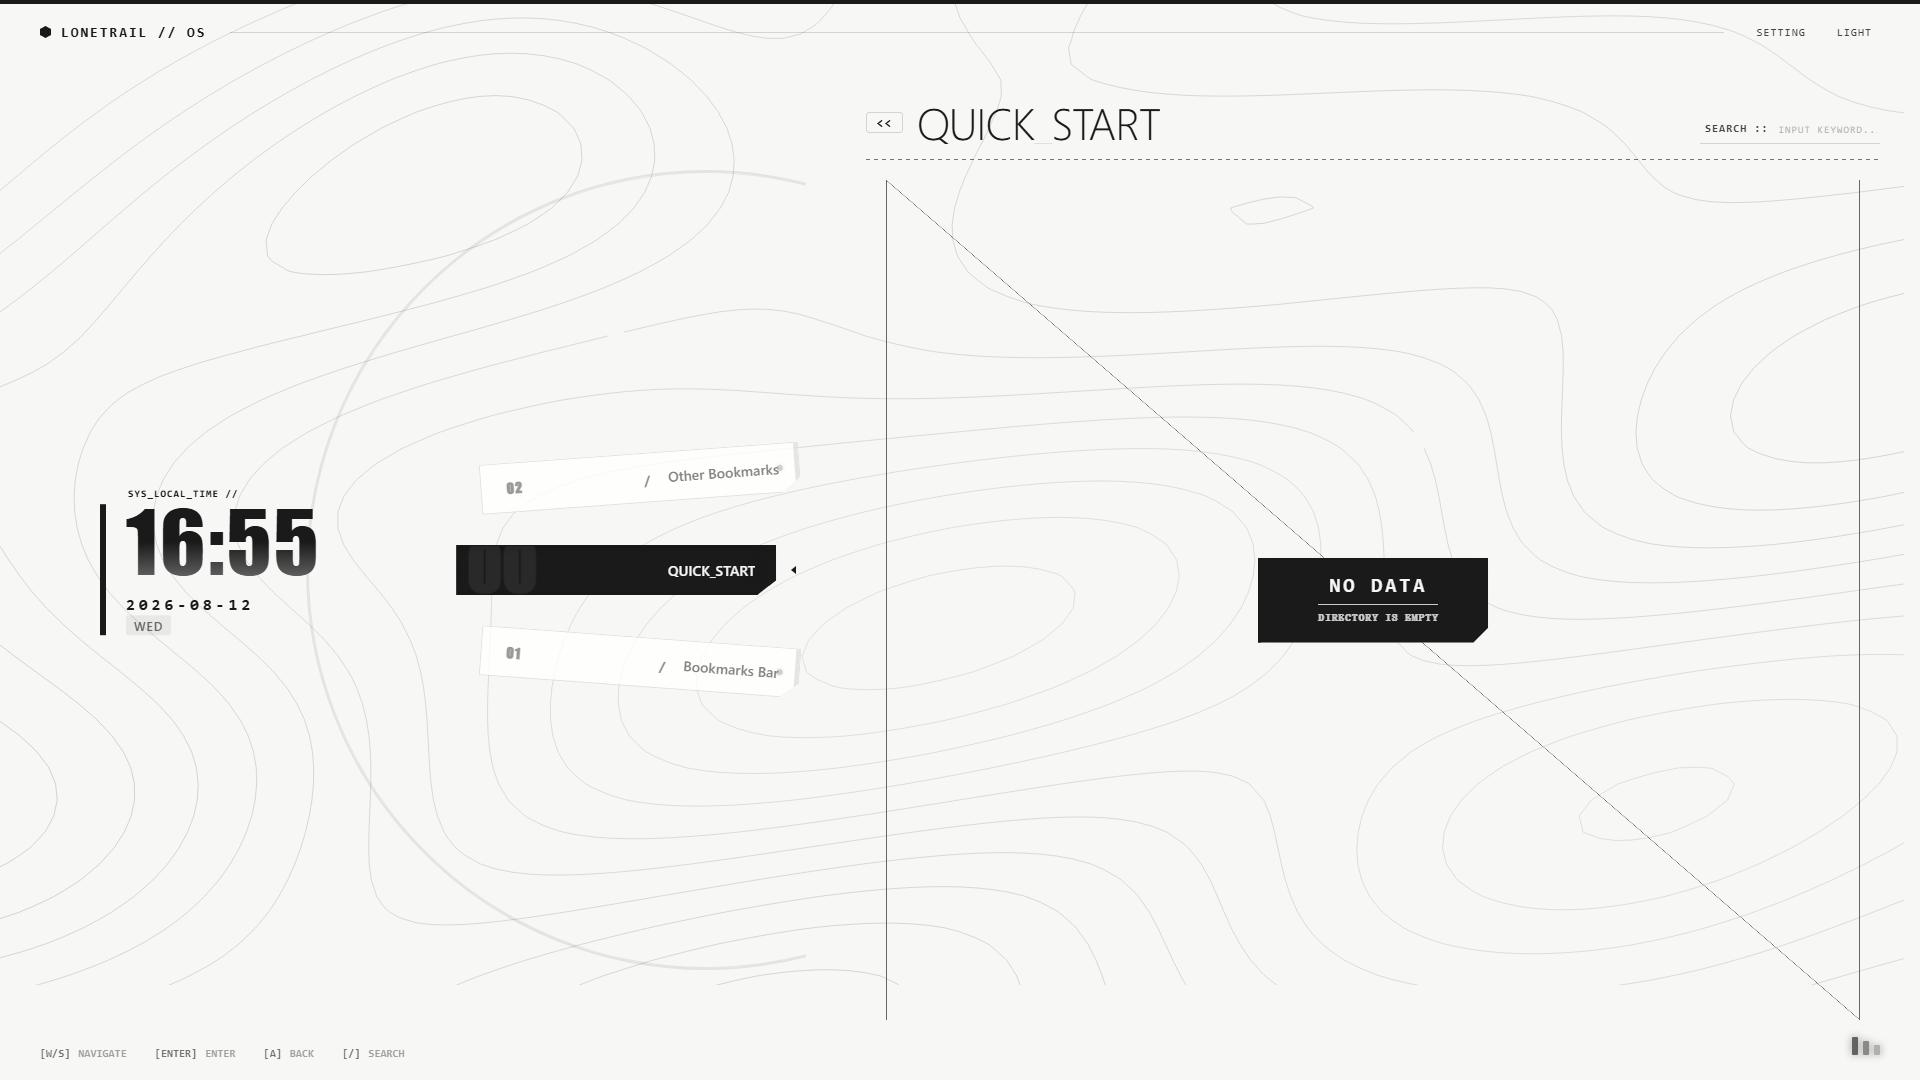
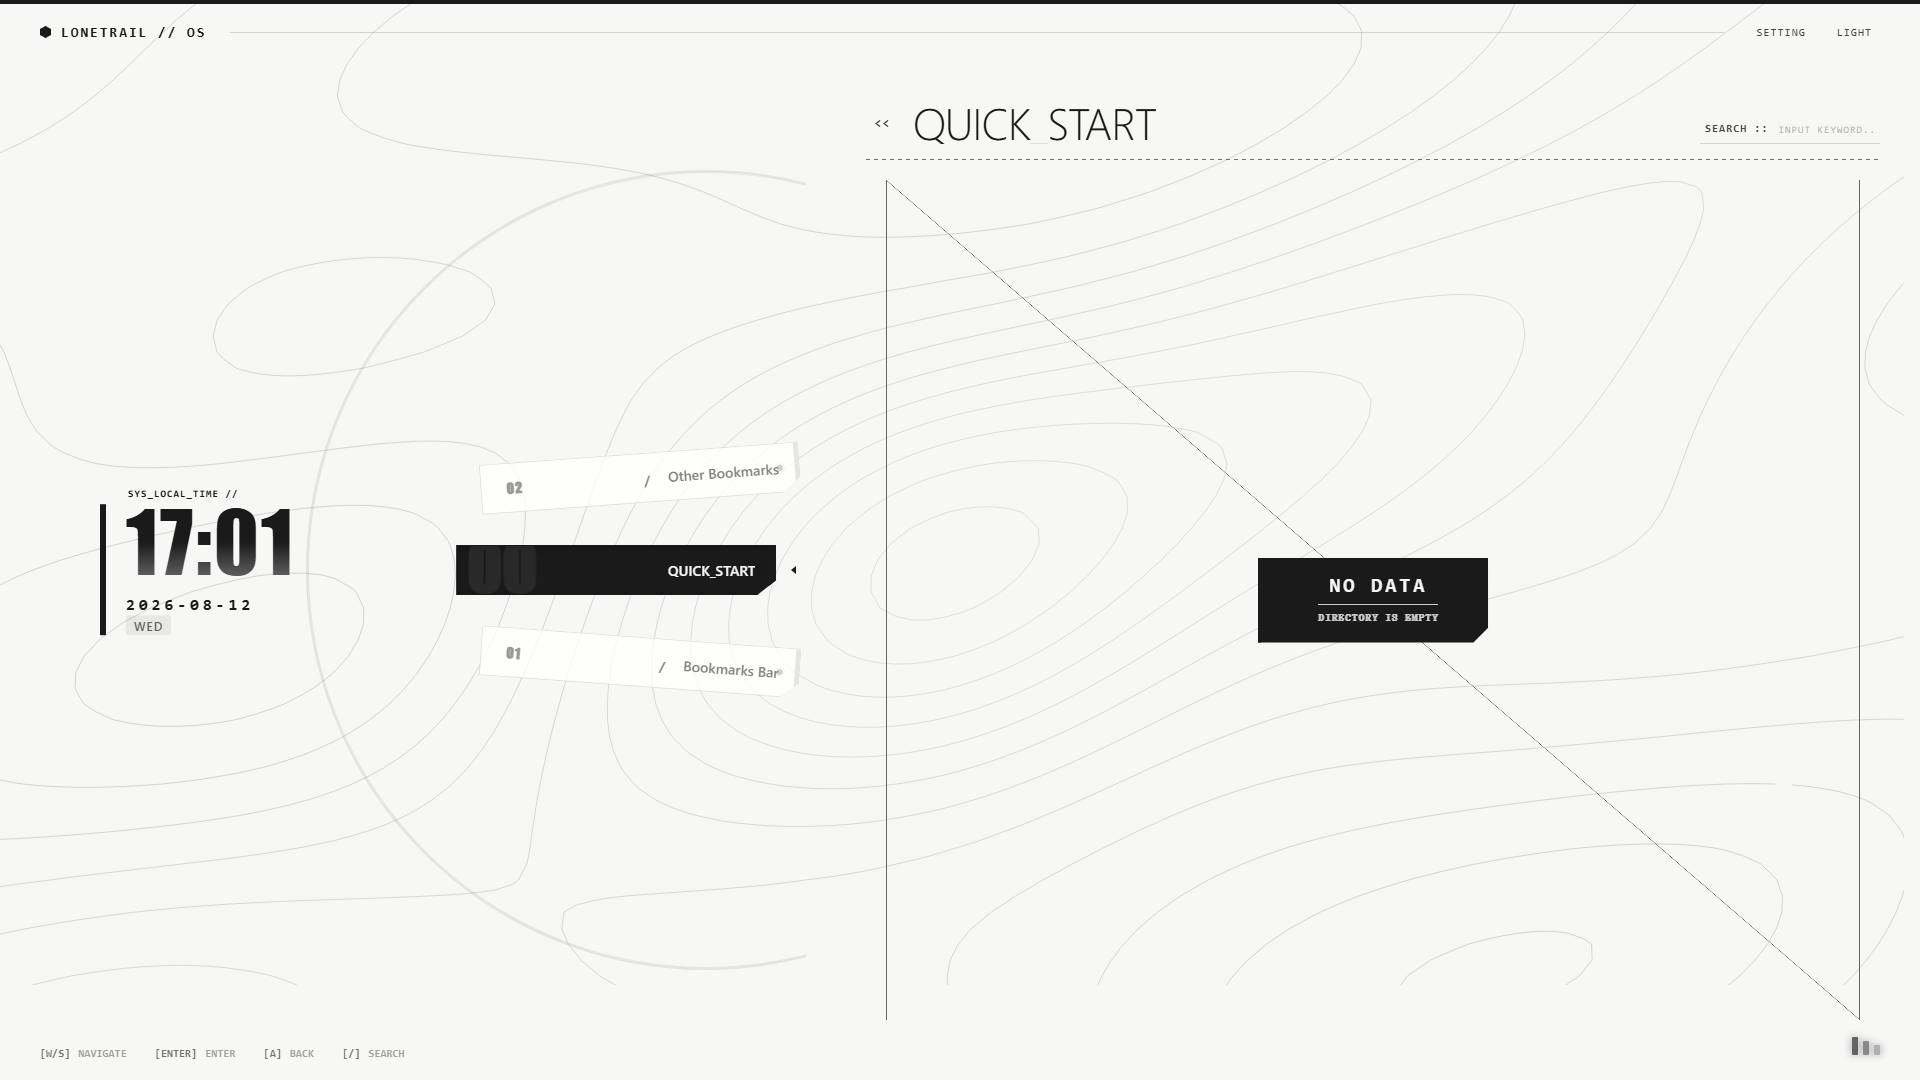
style(ui): back button matches flat top-bar buttons (borderless)
- .back-btn: remove border/radius, transparent bg, mono text, opacity 0.8, hover -> accent color (same language as SETTING/LIGHT)
- regenerate screenshots

Changed region(s): [[0.0625, 0.4583, 0.1875, 0.55], [0.4688, 0.0917, 0.5938, 0.1528]]

diff --git a/LoneTrail-Tab/css/layout.css b/LoneTrail-Tab/css/layout.css
@@ -138,19 +138,19 @@
 .back-btn {
     flex-shrink: 0;
     background: transparent;
-    border: 1px solid var(--border);
-    color: var(--accent-text);
+    border: none;
+    color: var(--text-main);
     font-family: var(--font-stack);
     font-size: 13px;
     font-weight: 700;
     letter-spacing: 1px;
-    padding: 3px 9px;
-    border-radius: 3px;
+    padding: 4px 8px;
     line-height: 1;
+    opacity: 0.8;
     transition: 0.15s;
 }
 .back-btn:hover {
-    border-color: var(--accent);
+    opacity: 1;
     color: var(--accent);
 }
 
